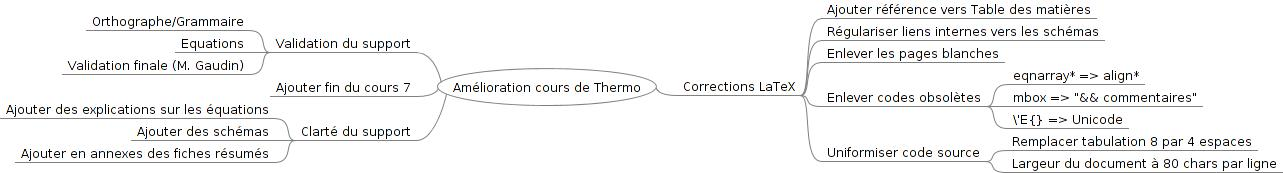
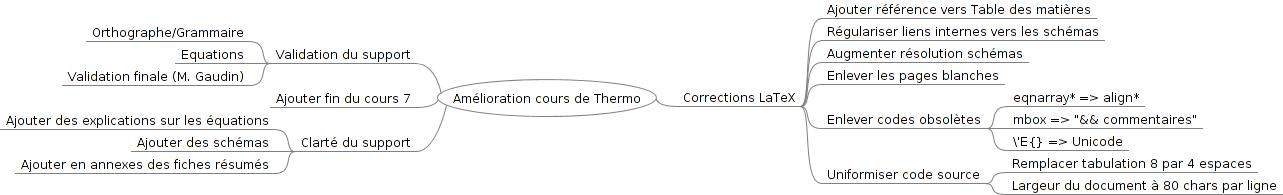
Ajout de "Augmenter résolution des schémas" dans la TODO

Changed region(s): [[0.2182, 0.0289, 0.9977, 1.0], [0.0, 0.578, 0.3429, 0.9538], [0.0312, 0.0867, 0.3429, 0.4624]]

diff --git a/Todo/Todo.html b/Todo/Todo.html
@@ -23,7 +23,7 @@
                    };
                };
           
-          --></script></head><body><h1>Amélioration cours de Thermo</h1><div style="width:96%;  padding:2%;  margin-bottom:10px;  border: 0px;  text-align:center;  vertical-align:center;"><img src="Todo.html_files/image.png" style="margin-bottom:10px; &#9;border: 0px; &#9;text-align:center; &#9;vertical-align:center;" alt="Imagemap" usemap="#fm_imagemap"/></div><map name="fm_imagemap" id="fm_imagemap"><area shape="rect" href="#FMID_31717721FM" alt="Amélioration cours de Thermo" title="Amélioration cours de Thermo" coords="437,68,657,106" /><area shape="rect" href="#FMID_994946494FM" alt="Validation du support" title="Validation du support" coords="270,34,417,53" /><area shape="rect" href="#FMID_1231925429FM" alt="Orthographe/Grammaire" title="Orthographe/Grammaire" coords="86,12,250,31" /><area shape="rect" href="#FMID_1099899684FM" alt="Equations" title="Equations" coords="175,34,250,53" /><area shape="rect" href="#FMID_1684974361FM" alt="Validation finale (M. Gaudin)" title="Validation finale (M. Gaudin)" coords="62,56,250,75" /><area shape="rect" href="#FMID_591706622FM" alt="Ajouter fin du cours 7" title="Ajouter fin du cours 7" coords="270,78,417,97" /><area shape="rect" href="#FMID_1043938222FM" alt="Corrections LaTeX" title="Corrections LaTeX" coords="677,77,801,96" /><area shape="rect" href="#FMID_1907477656FM" alt="Ajouter référence vers Table des matière ..." title="Ajouter référence vers Table des matière ..." coords="821,0,1097,19" /><area shape="rect" href="#FMID_1011855435FM" alt="Régulariser liens internes vers les sché ..." title="Régulariser liens internes vers les sché ..." coords="821,22,1105,41" /><area shape="rect" href="#FMID_250558364FM" alt="Enlever les pages blanches" title="Enlever les pages blanches" coords="821,44,1005,63" /><area shape="rect" href="#FMID_444476395FM" alt="Enlever codes obsolètes" title="Enlever codes obsolètes" coords="821,88,987,107" /><area shape="rect" href="#FMID_1794958454FM" alt="eqnarray* =&gt; align*" title="eqnarray* =&gt; align*" coords="1007,66,1145,85" /><area shape="rect" href="#FMID_68195057FM" alt="mbox =&gt; &quot;&amp;&amp; commentaires&quot;" title="mbox =&gt; &quot;&amp;&amp; commentaires&quot;" coords="1007,88,1203,107" /><area shape="rect" href="#FMID_737575188FM" alt="\'E{} =&gt; Unicode" title="\'E{} =&gt; Unicode" coords="1007,110,1129,129" /><area shape="rect" href="#FMID_1280273045FM" alt="Uniformiser code source" title="Uniformiser code source" coords="821,143,986,162" /><area shape="rect" href="#FMID_861308458FM" alt="Remplacer tabulation 8 par 4 espaces" title="Remplacer tabulation 8 par 4 espaces" coords="1006,132,1258,151" /><area shape="rect" href="#FMID_207542031FM" alt="Largeur du document à 80 chars par ligne" title="Largeur du document à 80 chars par ligne" coords="1006,154,1283,173" /><area shape="rect" href="#FMID_1954031981FM" alt="Clarté du support" title="Clarté du support" coords="295,122,417,141" /><area shape="rect" href="#FMID_1527465693FM" alt="Ajouter des explications sur les équatio ..." title="Ajouter des explications sur les équatio ..." coords="0,100,275,119" /><area shape="rect" href="#FMID_1567903129FM" alt="Ajouter des schémas" title="Ajouter des schémas" coords="131,122,275,141" /><area shape="rect" href="#FMID_407782652FM" alt="Ajouter en annexes des fiches résumés" title="Ajouter en annexes des fiches résumés" coords="15,144,275,163" /></map>
+          --></script></head><body><h1>Amélioration cours de Thermo</h1><div style="width:96%;  padding:2%;  margin-bottom:10px;  border: 0px;  text-align:center;  vertical-align:center;"><img src="Todo.html_files/image.png" style="margin-bottom:10px; &#9;border: 0px; &#9;text-align:center; &#9;vertical-align:center;" alt="Imagemap" usemap="#fm_imagemap"/></div><map name="fm_imagemap" id="fm_imagemap"><area shape="rect" href="#FMID_31717721FM" alt="Amélioration cours de Thermo" title="Amélioration cours de Thermo" coords="437,79,657,117" /><area shape="rect" href="#FMID_994946494FM" alt="Validation du support" title="Validation du support" coords="270,45,417,64" /><area shape="rect" href="#FMID_1231925429FM" alt="Orthographe/Grammaire" title="Orthographe/Grammaire" coords="86,23,250,42" /><area shape="rect" href="#FMID_1099899684FM" alt="Equations" title="Equations" coords="175,45,250,64" /><area shape="rect" href="#FMID_1684974361FM" alt="Validation finale (M. Gaudin)" title="Validation finale (M. Gaudin)" coords="62,67,250,86" /><area shape="rect" href="#FMID_591706622FM" alt="Ajouter fin du cours 7" title="Ajouter fin du cours 7" coords="270,89,417,108" /><area shape="rect" href="#FMID_1043938222FM" alt="Corrections LaTeX" title="Corrections LaTeX" coords="677,88,801,107" /><area shape="rect" href="#FMID_1907477656FM" alt="Ajouter référence vers Table des matière ..." title="Ajouter référence vers Table des matière ..." coords="821,0,1097,19" /><area shape="rect" href="#FMID_1011855435FM" alt="Régulariser liens internes vers les sché ..." title="Régulariser liens internes vers les sché ..." coords="821,22,1105,41" /><area shape="rect" href="#FMID_917856128FM" alt="Augmenter résolution schémas" title="Augmenter résolution schémas" coords="821,44,1029,63" /><area shape="rect" href="#FMID_250558364FM" alt="Enlever les pages blanches" title="Enlever les pages blanches" coords="821,66,1005,85" /><area shape="rect" href="#FMID_444476395FM" alt="Enlever codes obsolètes" title="Enlever codes obsolètes" coords="821,110,987,129" /><area shape="rect" href="#FMID_1794958454FM" alt="eqnarray* =&gt; align*" title="eqnarray* =&gt; align*" coords="1007,88,1145,107" /><area shape="rect" href="#FMID_68195057FM" alt="mbox =&gt; &quot;&amp;&amp; commentaires&quot;" title="mbox =&gt; &quot;&amp;&amp; commentaires&quot;" coords="1007,110,1203,129" /><area shape="rect" href="#FMID_737575188FM" alt="\'E{} =&gt; Unicode" title="\'E{} =&gt; Unicode" coords="1007,132,1129,151" /><area shape="rect" href="#FMID_1280273045FM" alt="Uniformiser code source" title="Uniformiser code source" coords="821,165,986,184" /><area shape="rect" href="#FMID_861308458FM" alt="Remplacer tabulation 8 par 4 espaces" title="Remplacer tabulation 8 par 4 espaces" coords="1006,154,1258,173" /><area shape="rect" href="#FMID_207542031FM" alt="Largeur du document à 80 chars par ligne" title="Largeur du document à 80 chars par ligne" coords="1006,176,1283,195" /><area shape="rect" href="#FMID_1954031981FM" alt="Clarté du support" title="Clarté du support" coords="295,133,417,152" /><area shape="rect" href="#FMID_1527465693FM" alt="Ajouter des explications sur les équatio ..." title="Ajouter des explications sur les équatio ..." coords="0,111,275,130" /><area shape="rect" href="#FMID_1567903129FM" alt="Ajouter des schémas" title="Ajouter des schémas" coords="131,133,275,152" /><area shape="rect" href="#FMID_407782652FM" alt="Ajouter en annexes des fiches résumés" title="Ajouter en annexes des fiches résumés" coords="15,155,275,174" /></map>
 
-<div class="node"><img src="Todo.html_files/hide.png" class="hideshow" alt="hide" onClick="toggle(&quot;N65543&quot;)" id="imgN65543"/><a id="FMID_31717721FM"/><div class="nodecontent">Amélioration cours de Thermo</div><div class="content" id="N65543"><div class="node"><img src="Todo.html_files/hide.png" class="hideshow" alt="hide" onClick="toggle(&quot;N65549&quot;)" id="imgN65549"/><a id="FMID_994946494FM"/><div class="nodecontent">Validation du support</div><div class="content" id="N65549"><div class="node"><img src="Todo.html_files/leaf.png" class="hideshow" alt="leaf"/><a id="FMID_1231925429FM"/><div class="nodecontent">Orthographe/Grammaire</div></div><div class="node"><img src="Todo.html_files/leaf.png" class="hideshow" alt="leaf"/><a id="FMID_1099899684FM"/><div class="nodecontent">Equations</div></div><div class="node"><img src="Todo.html_files/leaf.png" class="hideshow" alt="leaf"/><a id="FMID_1684974361FM"/><div class="nodecontent">Validation finale (M. Gaudin)</div></div></div></div><div class="node"><img src="Todo.html_files/leaf.png" class="hideshow" alt="leaf"/><a id="FMID_591706622FM"/><div class="nodecontent">Ajouter fin du cours 7</div></div><div class="node"><img src="Todo.html_files/hide.png" class="hideshow" alt="hide" onClick="toggle(&quot;N65582&quot;)" id="imgN65582"/><a id="FMID_1043938222FM"/><div class="nodecontent">Corrections LaTeX</div><div class="content" id="N65582"><div class="node"><img src="Todo.html_files/leaf.png" class="hideshow" alt="leaf"/><a id="FMID_1907477656FM"/><div class="nodecontent">Ajouter référence vers Table des matières</div></div><div class="node"><img src="Todo.html_files/leaf.png" class="hideshow" alt="leaf"/><a id="FMID_1011855435FM"/><div class="nodecontent">Régulariser liens internes vers les schémas</div></div><div class="node"><img src="Todo.html_files/leaf.png" class="hideshow" alt="leaf"/><a id="FMID_250558364FM"/><div class="nodecontent">Enlever les pages blanches</div></div><div class="node"><img src="Todo.html_files/hide.png" class="hideshow" alt="hide" onClick="toggle(&quot;N65607&quot;)" id="imgN65607"/><a id="FMID_444476395FM"/><div class="nodecontent">Enlever codes obsolètes</div><div class="content" id="N65607"><div class="node"><img src="Todo.html_files/leaf.png" class="hideshow" alt="leaf"/><a id="FMID_1794958454FM"/><div class="nodecontent">eqnarray* =&gt; align*</div></div><div class="node"><img src="Todo.html_files/leaf.png" class="hideshow" alt="leaf"/><a id="FMID_68195057FM"/><div class="nodecontent">mbox =&gt; "&amp;&amp; commentaires"</div></div><div class="node"><img src="Todo.html_files/leaf.png" class="hideshow" alt="leaf"/><a id="FMID_737575188FM"/><div class="nodecontent">\'E{} =&gt; Unicode</div></div></div></div><div class="node"><img src="Todo.html_files/hide.png" class="hideshow" alt="hide" onClick="toggle(&quot;N65632&quot;)" id="imgN65632"/><a id="FMID_1280273045FM"/><div class="nodecontent">Uniformiser code source</div><div class="content" id="N65632"><div class="node"><img src="Todo.html_files/leaf.png" class="hideshow" alt="leaf"/><a id="FMID_861308458FM"/><div class="nodecontent">Remplacer tabulation 8 par 4 espaces</div></div><div class="node"><img src="Todo.html_files/leaf.png" class="hideshow" alt="leaf"/><a id="FMID_207542031FM"/><div class="nodecontent">Largeur du document à 80 chars par ligne</div></div></div></div></div></div><div class="node"><img src="Todo.html_files/hide.png" class="hideshow" alt="hide" onClick="toggle(&quot;N65652&quot;)" id="imgN65652"/><a id="FMID_1954031981FM"/><div class="nodecontent">Clarté du support</div><div class="content" id="N65652"><div class="node"><img src="Todo.html_files/leaf.png" class="hideshow" alt="leaf"/><a id="FMID_1527465693FM"/><div class="nodecontent">Ajouter des explications sur les équations</div></div><div class="node"><img src="Todo.html_files/leaf.png" class="hideshow" alt="leaf"/><a id="FMID_1567903129FM"/><div class="nodecontent">Ajouter des schémas</div></div><div class="node"><img src="Todo.html_files/leaf.png" class="hideshow" alt="leaf"/><a id="FMID_407782652FM"/><div class="nodecontent">Ajouter en annexes des fiches résumés</div></div></div></div></div></div>
+<div class="node"><img src="Todo.html_files/hide.png" class="hideshow" alt="hide" onClick="toggle(&quot;N65543&quot;)" id="imgN65543"/><a id="FMID_31717721FM"/><div class="nodecontent">Amélioration cours de Thermo</div><div class="content" id="N65543"><div class="node"><img src="Todo.html_files/hide.png" class="hideshow" alt="hide" onClick="toggle(&quot;N65549&quot;)" id="imgN65549"/><a id="FMID_994946494FM"/><div class="nodecontent">Validation du support</div><div class="content" id="N65549"><div class="node"><img src="Todo.html_files/leaf.png" class="hideshow" alt="leaf"/><a id="FMID_1231925429FM"/><div class="nodecontent">Orthographe/Grammaire</div></div><div class="node"><img src="Todo.html_files/leaf.png" class="hideshow" alt="leaf"/><a id="FMID_1099899684FM"/><div class="nodecontent">Equations</div></div><div class="node"><img src="Todo.html_files/leaf.png" class="hideshow" alt="leaf"/><a id="FMID_1684974361FM"/><div class="nodecontent">Validation finale (M. Gaudin)</div></div></div></div><div class="node"><img src="Todo.html_files/leaf.png" class="hideshow" alt="leaf"/><a id="FMID_591706622FM"/><div class="nodecontent">Ajouter fin du cours 7</div></div><div class="node"><img src="Todo.html_files/hide.png" class="hideshow" alt="hide" onClick="toggle(&quot;N65582&quot;)" id="imgN65582"/><a id="FMID_1043938222FM"/><div class="nodecontent">Corrections LaTeX</div><div class="content" id="N65582"><div class="node"><img src="Todo.html_files/leaf.png" class="hideshow" alt="leaf"/><a id="FMID_1907477656FM"/><div class="nodecontent">Ajouter référence vers Table des matières</div></div><div class="node"><img src="Todo.html_files/leaf.png" class="hideshow" alt="leaf"/><a id="FMID_1011855435FM"/><div class="nodecontent">Régulariser liens internes vers les schémas</div></div><div class="node"><img src="Todo.html_files/leaf.png" class="hideshow" alt="leaf"/><a id="FMID_917856128FM"/><div class="nodecontent">Augmenter résolution schémas</div></div><div class="node"><img src="Todo.html_files/leaf.png" class="hideshow" alt="leaf"/><a id="FMID_250558364FM"/><div class="nodecontent">Enlever les pages blanches</div></div><div class="node"><img src="Todo.html_files/hide.png" class="hideshow" alt="hide" onClick="toggle(&quot;N65613&quot;)" id="imgN65613"/><a id="FMID_444476395FM"/><div class="nodecontent">Enlever codes obsolètes</div><div class="content" id="N65613"><div class="node"><img src="Todo.html_files/leaf.png" class="hideshow" alt="leaf"/><a id="FMID_1794958454FM"/><div class="nodecontent">eqnarray* =&gt; align*</div></div><div class="node"><img src="Todo.html_files/leaf.png" class="hideshow" alt="leaf"/><a id="FMID_68195057FM"/><div class="nodecontent">mbox =&gt; "&amp;&amp; commentaires"</div></div><div class="node"><img src="Todo.html_files/leaf.png" class="hideshow" alt="leaf"/><a id="FMID_737575188FM"/><div class="nodecontent">\'E{} =&gt; Unicode</div></div></div></div><div class="node"><img src="Todo.html_files/hide.png" class="hideshow" alt="hide" onClick="toggle(&quot;N65638&quot;)" id="imgN65638"/><a id="FMID_1280273045FM"/><div class="nodecontent">Uniformiser code source</div><div class="content" id="N65638"><div class="node"><img src="Todo.html_files/leaf.png" class="hideshow" alt="leaf"/><a id="FMID_861308458FM"/><div class="nodecontent">Remplacer tabulation 8 par 4 espaces</div></div><div class="node"><img src="Todo.html_files/leaf.png" class="hideshow" alt="leaf"/><a id="FMID_207542031FM"/><div class="nodecontent">Largeur du document à 80 chars par ligne</div></div></div></div></div></div><div class="node"><img src="Todo.html_files/hide.png" class="hideshow" alt="hide" onClick="toggle(&quot;N65658&quot;)" id="imgN65658"/><a id="FMID_1954031981FM"/><div class="nodecontent">Clarté du support</div><div class="content" id="N65658"><div class="node"><img src="Todo.html_files/leaf.png" class="hideshow" alt="leaf"/><a id="FMID_1527465693FM"/><div class="nodecontent">Ajouter des explications sur les équations</div></div><div class="node"><img src="Todo.html_files/leaf.png" class="hideshow" alt="leaf"/><a id="FMID_1567903129FM"/><div class="nodecontent">Ajouter des schémas</div></div><div class="node"><img src="Todo.html_files/leaf.png" class="hideshow" alt="leaf"/><a id="FMID_407782652FM"/><div class="nodecontent">Ajouter en annexes des fiches résumés</div></div></div></div></div></div>
 </body></html>

diff --git a/Todo/Todo.mm b/Todo/Todo.mm
@@ -1,6 +1,6 @@
 <map version="0.9.0">
 <!-- To view this file, download free mind mapping software FreeMind from http://freemind.sourceforge.net -->
-<node CREATED="1357668022532" ID="ID_31717721" MODIFIED="1357668041574" TEXT="Am&#xe9;lioration cours de Thermo">
+<node CREATED="1357668022532" ID="ID_31717721" MODIFIED="1357679055433" TEXT="Am&#xe9;lioration cours de Thermo">
 <node CREATED="1357668311242" ID="ID_994946494" MODIFIED="1357668323034" POSITION="left" TEXT="Validation du support">
 <node CREATED="1357668324852" ID="ID_1231925429" MODIFIED="1357668358449" TEXT="Orthographe/Grammaire"/>
 <node CREATED="1357668330553" ID="ID_1099899684" MODIFIED="1357668333696" TEXT="Equations"/>
@@ -10,6 +10,7 @@
 <node CREATED="1357668122814" ID="ID_1043938222" MODIFIED="1357668918412" POSITION="right" TEXT="Corrections LaTeX">
 <node CREATED="1357668141297" ID="ID_1907477656" MODIFIED="1357668229235" TEXT="Ajouter r&#xe9;f&#xe9;rence vers Table des mati&#xe8;res"/>
 <node CREATED="1357668230690" ID="ID_1011855435" MODIFIED="1357668261569" TEXT="R&#xe9;gulariser liens internes vers les sch&#xe9;mas"/>
+<node CREATED="1357679060838" ID="ID_917856128" MODIFIED="1357679074783" TEXT="Augmenter r&#xe9;solution sch&#xe9;mas"/>
 <node CREATED="1357668286010" ID="ID_250558364" MODIFIED="1357668292554" TEXT="Enlever les pages blanches"/>
 <node CREATED="1357664247990" ID="ID_444476395" MODIFIED="1357668170697" TEXT="Enlever codes obsol&#xe8;tes">
 <node CREATED="1357664317343" ID="ID_1794958454" MODIFIED="1357668211092" TEXT="eqnarray* =&gt; align*"/>
